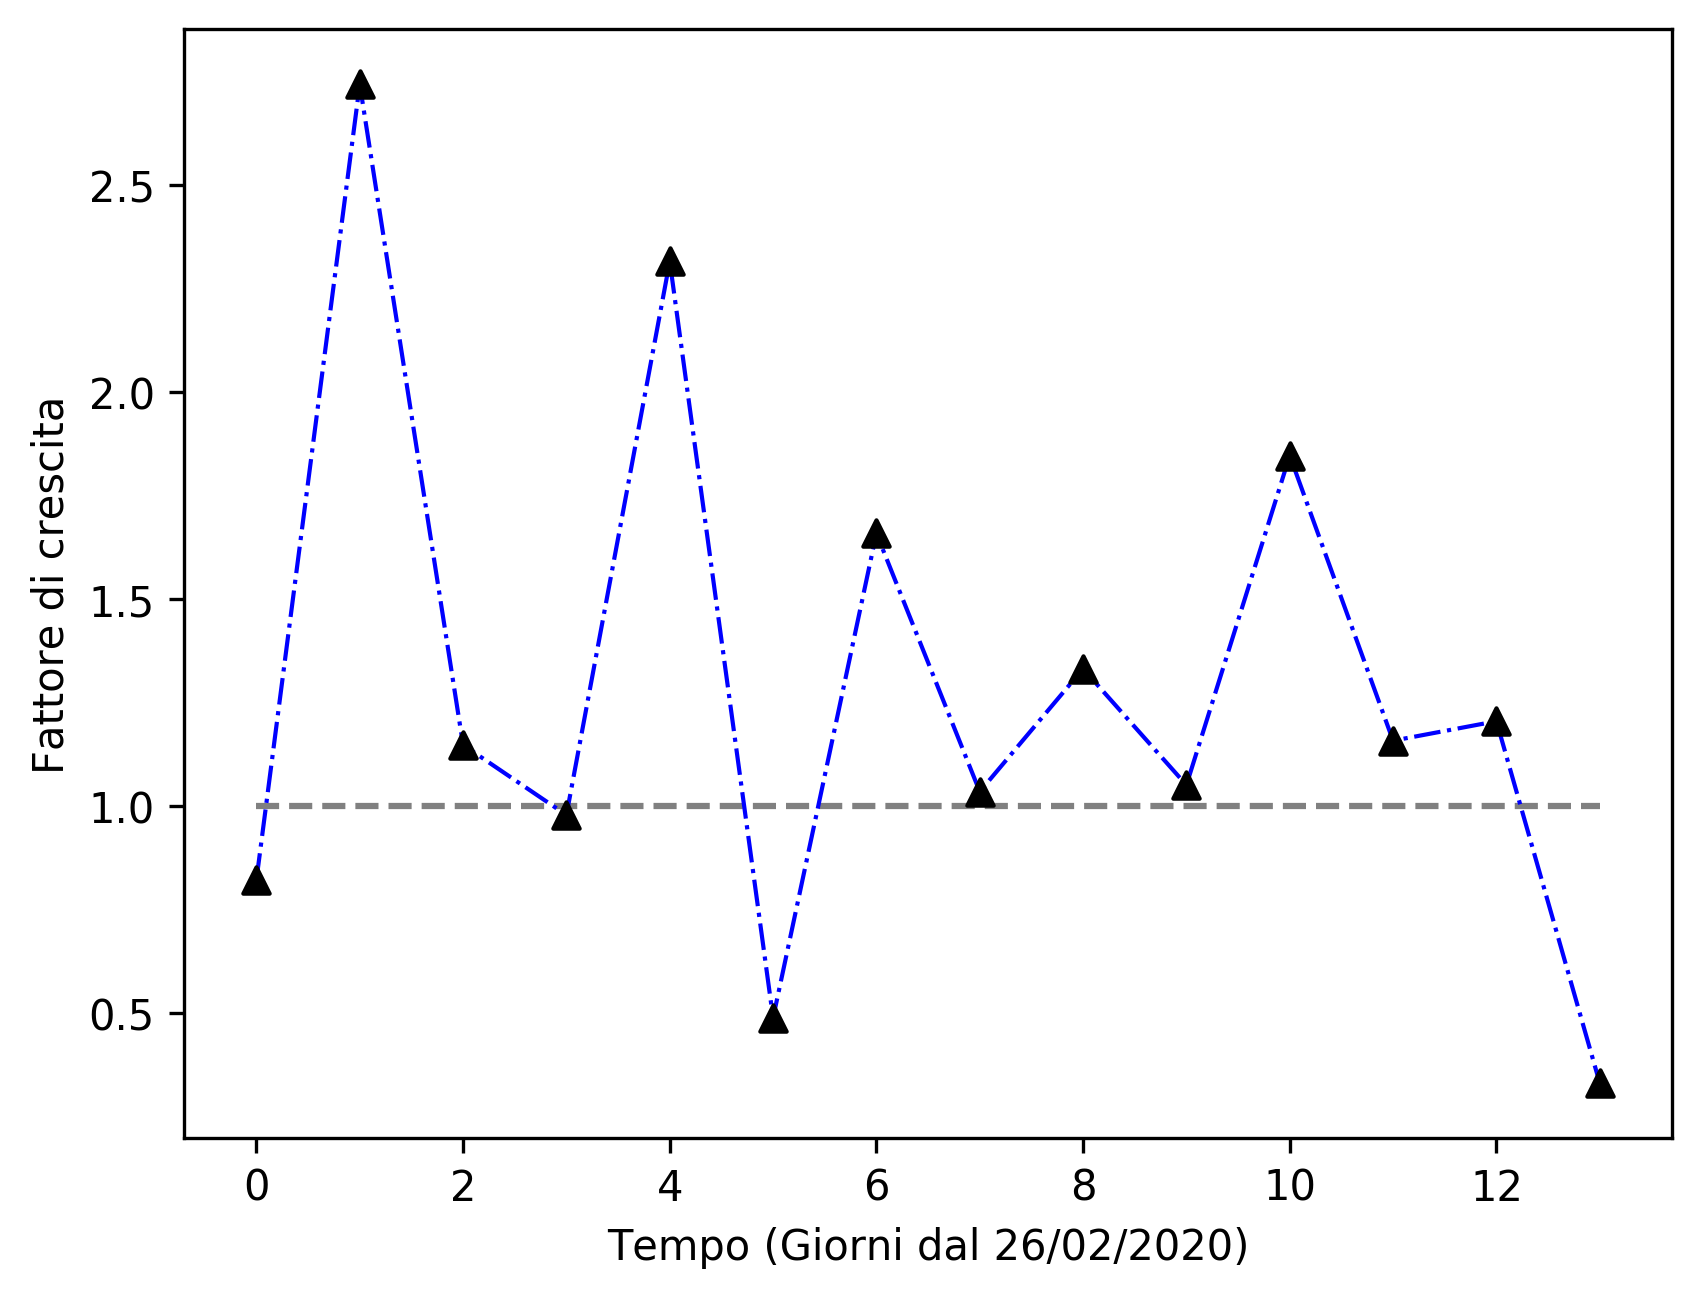
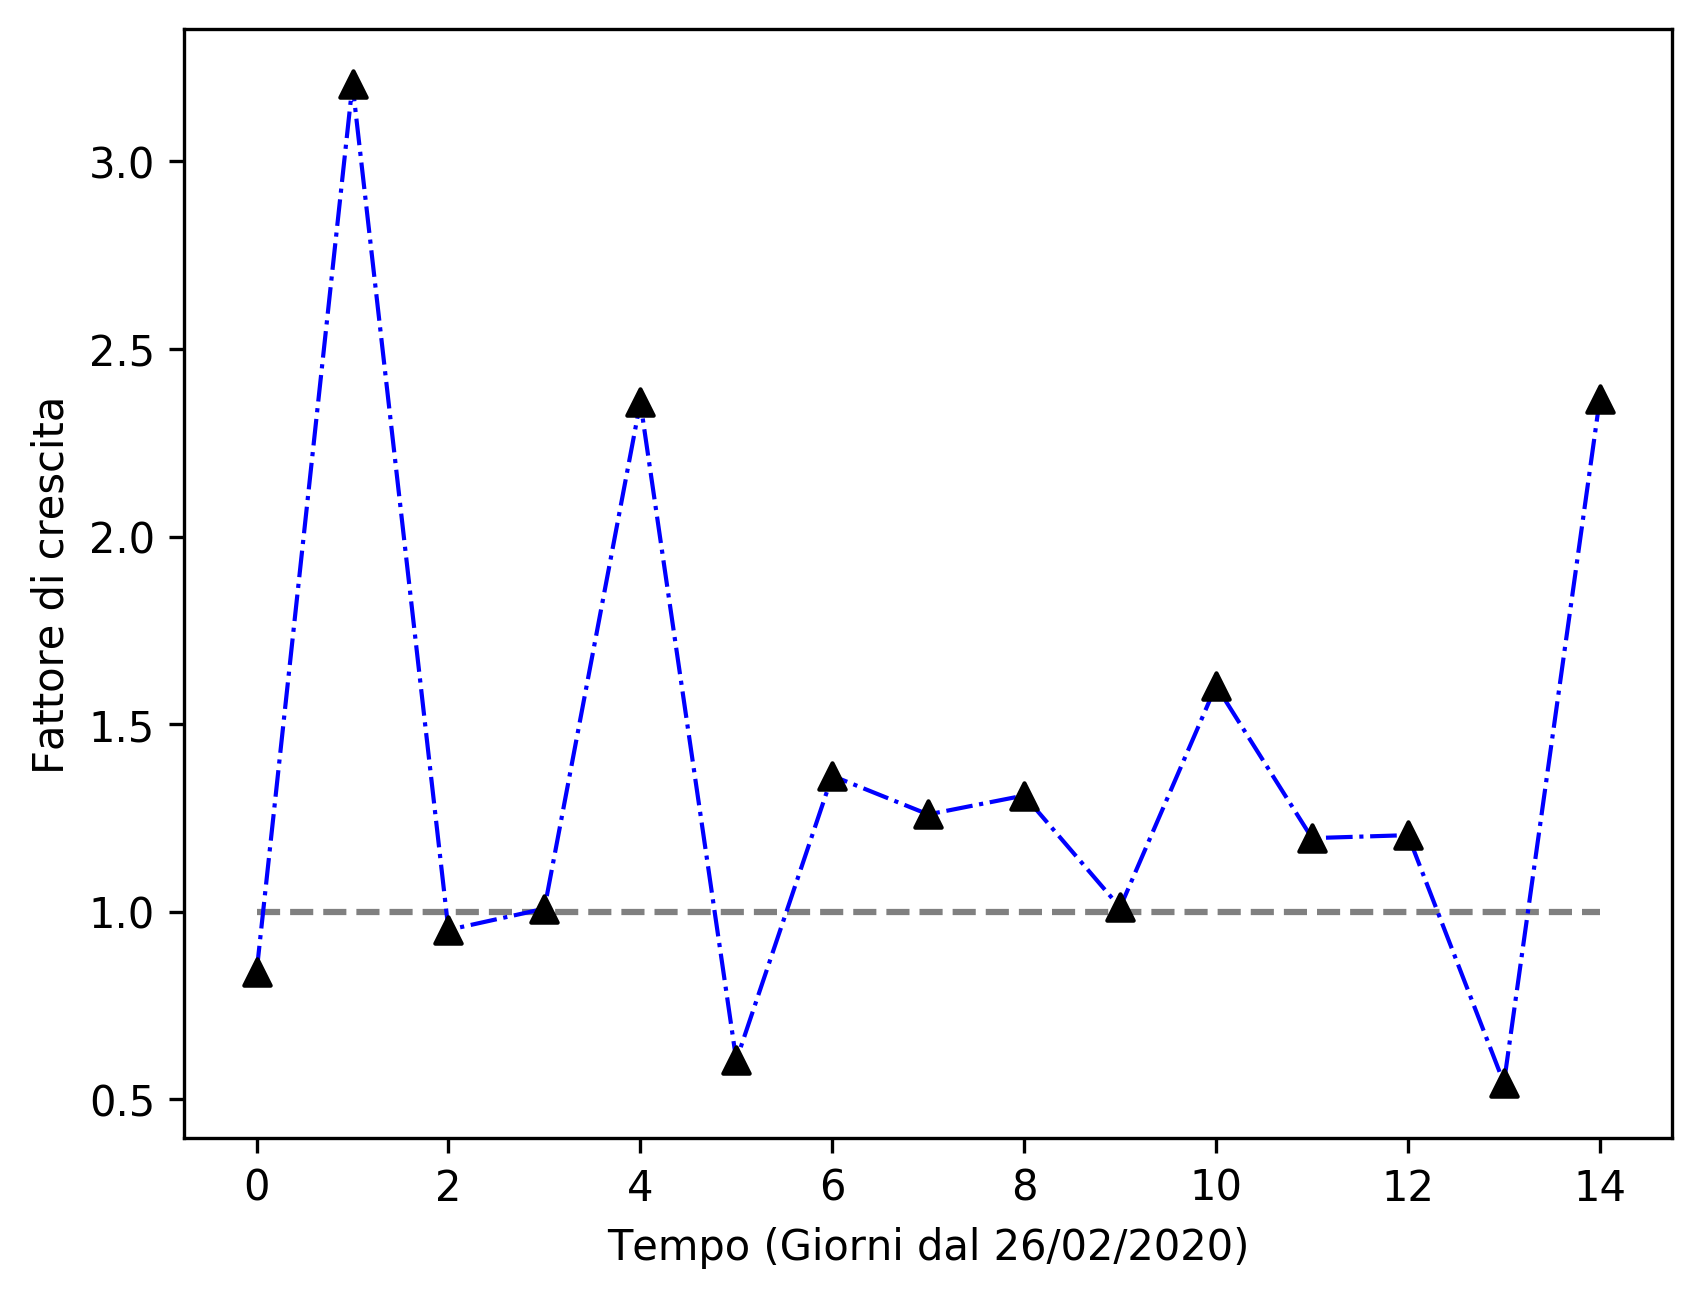
Add files via upload

diff --git a/covid19_italy.py b/covid19_italy.py
@@ -27,7 +27,7 @@ with open('data.csv') as csv_file:
         if first_row:
             first_row = False
         else:
-            infetti.append(int(row[6]))
+            infetti.append(int(row[10]))
 
 delta_t = 30
 delta_t2 = 10
@@ -48,14 +48,14 @@ p0 = [20000,(lower_1[1]+upper_3[1])/2,(lower_1[2]+upper_3[2])/2]
 print(p0)
 
 # popt, pcov = curve_fit(sigmoid,x[:-2],infetti[:-2],p0=p0,bounds=(lower_1, upper_3),method='trf',
-# max_nfev=50000,xtol=1e-15,gtol=1e-15,ftol=1e-15,jac="3-point",loss="linear")
+# max_nfev=50000,xtol=1e-15,gtol=1e-15,ftol=1e-15,jac="3-point",loss="huber")
 # max_infected1 = popt[0]
 # error1 = sqrt(diag(pcov))[0]
 # fitted1 = [sigmoid(i,*popt) for i in t]
 # print(str(popt)+" +- "+str(error1))
 #
 # popt, pcov = curve_fit(sigmoid,x[:-1],infetti[:-1],p0=p0,bounds=(lower_1, upper_3),method='trf',
-# max_nfev=50000,xtol=1e-15,gtol=1e-15,ftol=1e-15,jac="3-point",loss="linear")
+# max_nfev=50000,xtol=1e-15,gtol=1e-15,ftol=1e-15,jac="3-point",loss="huber")
 # max_infected2 = popt[0]
 # error2 = sqrt(diag(pcov))[0]
 # fitted2 = [sigmoid(i,*popt) for i in t]
@@ -66,9 +66,9 @@ max_nfev=50000,xtol=1e-15,gtol=1e-15,ftol=1e-15,jac="3-point",loss="huber")
 max_infected3 = popt[0]
 error3 = sqrt(diag(pcov))[0]
 fitted3 = [sigmoid(i,*popt) for i in t]
-print(str(popt)+" +- "+str(error3))
+print(str(popt)+" +- "+str(sqrt(diag(pcov))))
 
-popt, pcov = curve_fit(exponential,x,infetti,p0=[400,0.2],bounds=([100,0], [1000,2]),method='trf',
+popt, pcov = curve_fit(exponential,x,infetti,p0=[400,0.2],bounds=([100,0], [10000,2]),method='trf',
 max_nfev=50000,xtol=1e-15,gtol=1e-15,ftol=1e-15,jac="3-point",loss="huber")
 print(popt)
 exp_fit = [exponential(i,*popt) for i in t]
